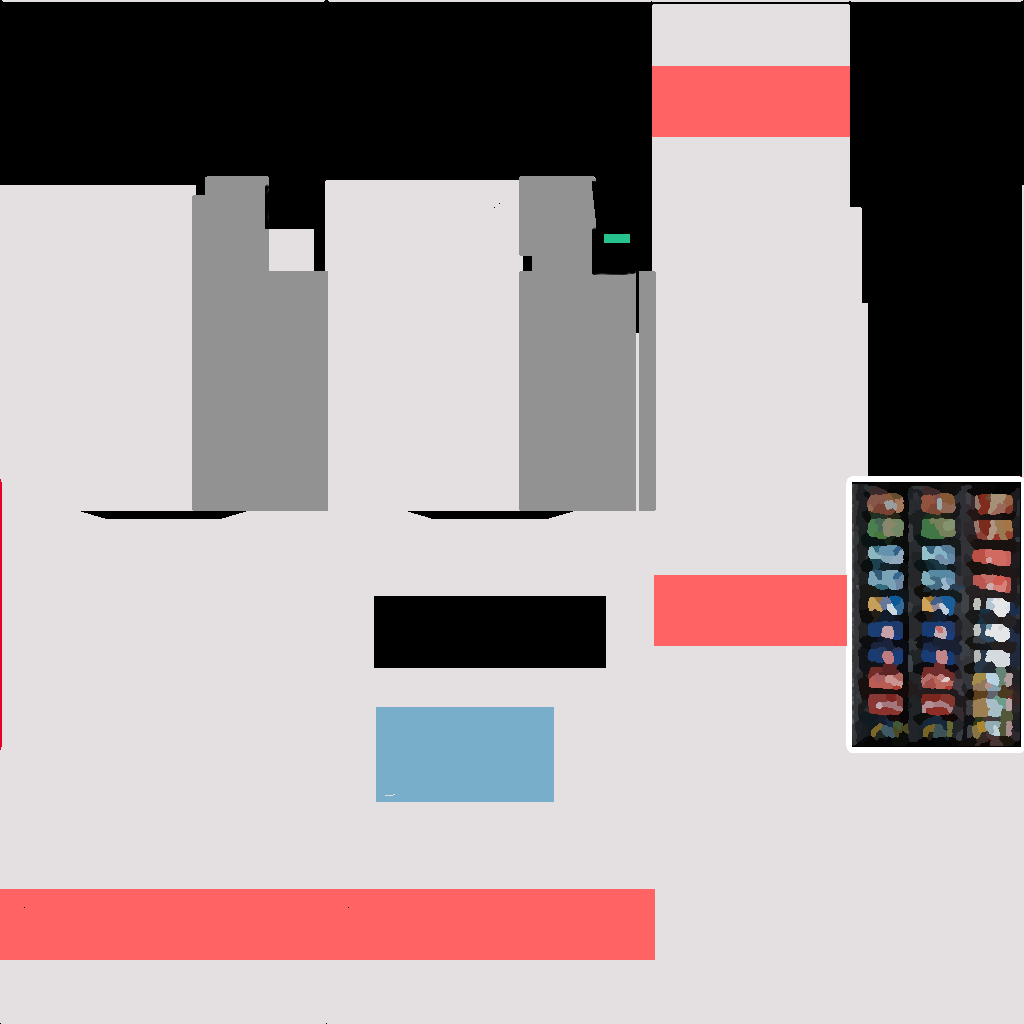
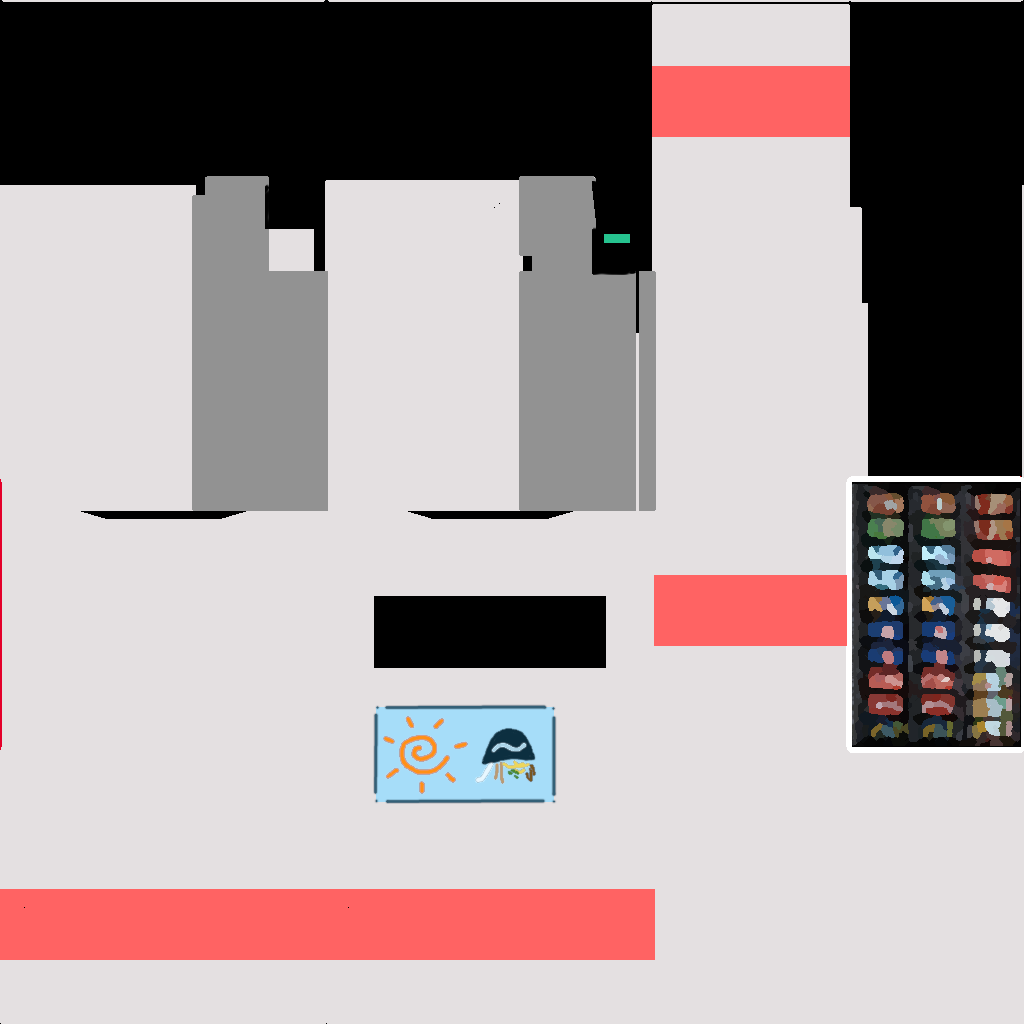
vending machines

Changed region(s): [[0.3438, 0.6875, 0.5625, 0.8125], [0.8438, 0.5312, 0.9375, 0.5938]]

diff --git a/game/entity_system.cpp b/game/entity_system.cpp
@@ -267,6 +267,109 @@ internal void handleInteractibleEntitiesWithDialogue(GmContext* context, GameSta
   }
 }
 
+internal void spawnRandomCollectible(GmContext* context, GameState& state) {
+  const static std::vector<std::string> collectibles = {
+    "onigiri",
+    "nitamago",
+    "chashu",
+    "narutomaki"
+    "pepper"
+  };
+
+  auto& player = get_player();
+  auto index = (u32)Gm_Randomf(0.f, (float)(collectibles.size() - 1));
+  auto& name = collectibles[index];
+  auto& collectible = create_object_from(name);
+
+  collectible.position = player.position;
+  collectible.scale = Vec3f(40.f);
+
+  commit(collectible);
+
+  state.initialMovingObjects.push_back(collectible);
+  state.lastVendingMachineUseTime = get_scene_time();
+}
+
+internal void handleVendingMachines(GmContext* context, GameState& state) {
+  auto t = get_scene_time();
+  auto& player = get_player();
+  auto& input = get_input();
+  auto& vendingIcon = objects("vending-icon")[0];
+  auto closestDistance = Gm_FLOAT_MAX;
+  Gamma::Object* lastTargetVendingMachine = nullptr;
+
+  state.isNearActionableEntity = false;
+
+  for (auto& machine : objects("vending-machine")) {
+    auto xzDistance = (machine.position - player.position).xz().magnitude();
+
+    machine.color = Vec3f(1.f);
+
+    commit(machine);
+
+    if (xzDistance < 175.f && xzDistance < closestDistance) {
+      state.isNearActionableEntity = true;
+
+      closestDistance = xzDistance;
+      lastTargetVendingMachine = &machine;
+
+      vendingIcon.position = (
+        player.position +
+        Vec3f(0, PLAYER_RADIUS * 4.f, 0) +
+        Vec3f(0, 15.f * sinf(t * 4.f), 0)
+      );
+
+      vendingIcon.scale = Vec3f::lerp(vendingIcon.scale, Vec3f(25.f), 0.1f);
+      vendingIcon.color = Vec3f(1.1f, 0.8f, 0.2f);
+      vendingIcon.rotation = Quaternion::fromAxisAngle(Vec3f(0, 1.f, 0), t * 3.f);
+    }
+  }
+
+  if (lastTargetVendingMachine != nullptr) {
+    lastTargetVendingMachine->color = Vec3f(1.f, 0.8f, 0.2f);
+
+    commit(*lastTargetVendingMachine);
+  }
+
+  if (state.lastVendingMachineUseTime != 0.f) {
+    auto* machine = get_object_by_record(state.lastUsedVendingMachine._record);
+
+    if (machine != nullptr) {
+      auto alpha = time_since(state.lastVendingMachineUseTime) * 3.f;
+
+      if (alpha < 1.f) {
+        auto tilt = 0.1f * sinf(alpha * Gm_TAU);
+        auto forward = state.lastUsedVendingMachine.rotation.getDirection();
+        auto left = state.lastUsedVendingMachine.rotation.getLeftDirection();
+
+        machine->position = state.lastUsedVendingMachine.position - forward * sinf(alpha * Gm_TAU) * 5.f;
+        machine->rotation = Quaternion::fromAxisAngle(left, 0.05f * sinf(alpha * Gm_TAU)) * state.lastUsedVendingMachine.rotation;
+      } else {
+        machine->position = state.lastUsedVendingMachine.position;
+        machine->rotation = state.lastUsedVendingMachine.rotation;
+      }
+
+      commit(*machine);
+    }
+  }
+
+  if (closestDistance == Gm_FLOAT_MAX) {
+    vendingIcon.scale = Vec3f::lerp(vendingIcon.scale, Vec3f(0.f), 0.1f);
+  } else if (
+    lastTargetVendingMachine != nullptr &&
+    time_since(state.lastVendingMachineUseTime) > 0.5f && (
+      input.didPressKey(Key::SPACE) ||
+      input.didPressKey(Key::CONTROLLER_B)
+    )
+  ) {
+    state.lastUsedVendingMachine = *lastTargetVendingMachine;
+
+    spawnRandomCollectible(context, state);
+  }
+
+  commit(vendingIcon);
+}
+
 internal void handleNpcHeadTurning(GmContext* context, GameState& state, const std::string& meshName) {
   auto& player = get_player();
 
@@ -288,7 +391,7 @@ internal void handleNpcHeadTurning(GmContext* context, GameState& state, const s
   });
 }
 
-internal void handleNpcs(GmContext* context, GameState& state) {
+internal void handleNpcBehavior(GmContext* context, GameState& state) {
   auto& player = get_player();
 
   handleNpcHeadTurning(context, state, "guy-hair");
@@ -1472,7 +1575,8 @@ void EntitySystem::handleGameEntities(GmContext* context, GameState& state, floa
   // Interactible/player-dependent entities
   handleSlingshots(context, state, dt);
   handleInteractibleEntitiesWithDialogue(context, state);
-  handleNpcs(context, state);
+  handleVendingMachines(context, state);
+  handleNpcBehavior(context, state);
   handleSpeechBubbleTargets(context, state);
   handleBalloons(context, state, dt);
   handleCollectibles(context, state, dt);

diff --git a/game/world.cpp b/game/world.cpp
@@ -903,6 +903,10 @@ void World::initializeGameWorld(GmContext* context, GameState& state) {
     mesh("speech-bubble")->emissivity = 0.5f;
     mesh("speech-bubble")->canCastShadows = false;
 
+    add_mesh("vending-icon", 1, Mesh::Model("./game/assets/collectibles/coin.obj"));
+    mesh("vending-icon")->emissivity = 0.2f;
+    mesh("vending-icon")->roughness = 0.1f;
+
     add_mesh("ocean", 1, Mesh::Disc(12));
     add_mesh("ocean-floor", 1, Mesh::Disc(12));
 
@@ -966,6 +970,7 @@ void World::initializeGameWorld(GmContext* context, GameState& state) {
   commit(target);
 
   create_object_from("speech-bubble");
+  create_object_from("vending-icon");
 
   state.direction = Vec3f(0, 0, -1.f);
 
@@ -1042,6 +1047,17 @@ void World::rebuildDynamicCollisionPlanes(GmContext* context, GameState& state) 
     box.position = cube.position;
     box.rotation = cube.rotation;
     box.scale = cube.scale;
+    box.color = DEFAULT_COLOR;
+
+    commit(box);
+  }
+
+  for (auto& machine : objects("vending-machine")) {
+    auto& box = create_object_from("dynamic_collision_box");
+
+    box.position = machine.position;
+    box.rotation = machine.rotation;
+    box.scale = machine.scale * Vec3f(0.6f, 1.f, 0.4f);
     box.color = DEFAULT_COLOR;
 
     commit(box);

diff --git a/game/camera_system.cpp b/game/camera_system.cpp
@@ -435,7 +435,6 @@ void CameraSystem::handleVisibilityCulling(GmContext* context, GameState& state)
     "round-vent-piece", "round-vent-corner",
     "p_ramen-sign",
     "sphere-sign",
-    "metal-stair-step", "wood-stair-step",
     "bird-at-rest", "bird-flying"
   });
 
@@ -458,6 +457,10 @@ void CameraSystem::handleVisibilityCulling(GmContext* context, GameState& state)
     "wood-planter", "plant-pot",
     "generator",
     "p_town-sign-spinner", "spinner-1", "pinwheel"
+  };
+
+  static std::initializer_list<std::string> meshesToFrustumCullAt5K = {
+    "metal-stair-step", "wood-stair-step"
   };
 
   // @todo store somewhere as a constant
@@ -492,6 +495,7 @@ void CameraSystem::handleVisibilityCulling(GmContext* context, GameState& state)
   };
 
   use_frustum_culling_at_distance(1000.f, meshesToFrustumCullAt1K);
+  use_frustum_culling_at_distance(5000.f, meshesToFrustumCullAt5K);
   use_frustum_culling_at_distance(10000.f, meshesToFrustumCullAt10K);
 
   LOG_TIME();

diff --git a/game/game.h b/game/game.h
@@ -124,6 +124,7 @@ struct GameState {
   bool wasOnSolidGroundLastFrame = false;
   bool hasAirDashTarget = false;
   bool hasActiveDialogue = false;
+  bool isNearActionableEntity = false;
 
   // @todo wall kicks are currently automatic. It may be worthwhile to restore
   // the original behavior, or use a system of briefly running along walls and
@@ -197,6 +198,10 @@ struct GameState {
   // Dash flowers
   float lastDashFlowerCollectionTime = 0.f;
   float lastFlowerSpawnTime = 0.f;
+
+  // Vending machines
+  float lastVendingMachineUseTime = 0.f;
+  Gamma::Object lastUsedVendingMachine;
 
   std::vector<Gamma::Light*> proceduralLights;
 

diff --git a/game/movement_system.cpp b/game/movement_system.cpp
@@ -341,7 +341,10 @@ internal void handleNormalMovementInput(GmContext* context, GameState& state, fl
       state.superjumpChargeTime = 0.f;
     }
 
-    if (input.didPressKey(Key::SPACE) || input.didPressKey(Key::CONTROLLER_A)) {
+    if (!state.isNearActionableEntity && (
+      input.didPressKey(Key::SPACE) ||
+      input.didPressKey(Key::CONTROLLER_A)
+    )) {
       float sceneTime = get_scene_time();
 
       if (state.isOnSolidGround) {
